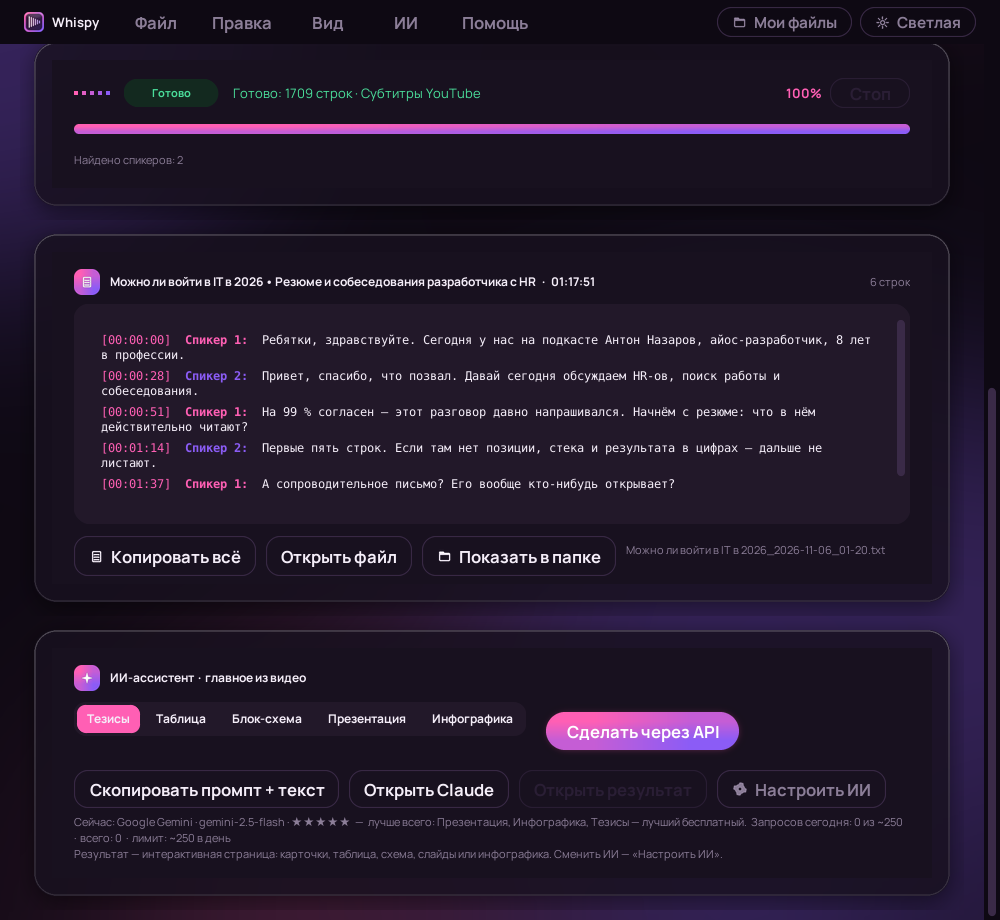
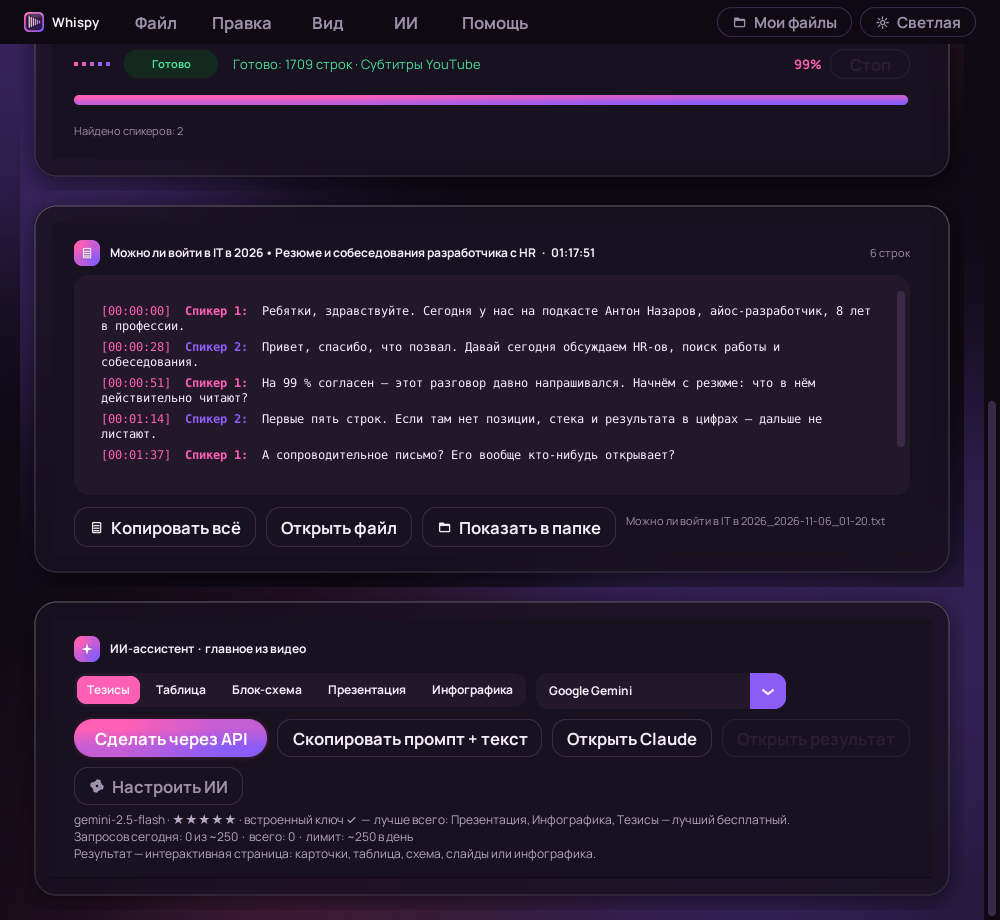
2.7.3: выбор ИИ в блоке, пометки ключей, фикс зависания просмотра, контраст подсказок, Мои файлы
Claude-Session: https://claude.ai/code/session_01S2yJaERcb5RkzNkB8S1xRH

diff --git a/docs/guide.html b/docs/guide.html
@@ -92,7 +92,7 @@ footer{margin-top:48px;color:var(--muted);font-size:12px;border-top:1px solid va
 <div class="step"><div class="n">2</div><div>
 <h3>Нажми «Сделать через API»</h3>
 <p>Через 30–90 секунд в браузере откроется готовая интерактивная страница в стиле Whispy. Она сохраняется в «Мои файлы»; кнопка <b>Сохранить в PDF</b> внизу страницы. Слайды переключаются стрелками клавиатуры.</p>
-<p><b>Работает сразу, без ключа:</b> по умолчанию выбран бесплатный Pollinations — просто нажми «Сделать через API» (ответ 20–60 секунд; бесплатный лимит — одна задача раз в 45 секунд, приложение само подождёт). Хочешь модель посильнее — открой окно <b>Настроить ИИ</b> (оно же — кнопка с шестерёнкой рядом или меню <b>ИИ → Настроить ИИ</b>):</p>
+<p><b>Работает сразу, без ключа:</b> по умолчанию выбран бесплатный Pollinations — просто нажми «Сделать через API» (ответ 20–60 секунд; бесплатный лимит — одна задача раз в 45 секунд, приложение само подождёт). Сменить ИИ можно прямо в блоке — выпадающий список рядом с форматами. Ключ, модель и подсказки — в окне <b>Настроить ИИ</b> (оно же — кнопка с шестерёнкой рядом или меню <b>ИИ → Настроить ИИ</b>):</p>
 <ol>
 <li><b>Провайдер</b> — выбери из списка. Бесплатные: Pollinations (без ключа), Google Gemini, Groq, NVIDIA NIM, Ollama Cloud, Z.AI GLM, Cerebras, GitHub Models, Mistral, OpenRouter (:free-модели), Ollama (локально). Платные: Anthropic (Claude), OpenAI (GPT), DeepSeek, xAI (Grok).</li>
 <li><b>API-ключ</b> — вставь тот, что тебе дали. Нет ключа — под полями пошаговая подсказка, где его взять, а кнопка <b>Где взять ключ</b> сразу открывает нужный сайт. Для Ollama ключ не нужен.</li>

diff --git a/app.py b/app.py
@@ -26,7 +26,7 @@ import urllib.request
 import tkinter as tk
 from tkinter import font as tkfont
 
-APP_VERSION = "2.7.2"
+APP_VERSION = "2.7.3"
 UPDATE_URL = "https://raw.githubusercontent.com/alegawhats-del/Whispy/main/version.json"
 GITHUB_URL = "https://github.com/alegawhats-del/Whispy"
 
@@ -109,7 +109,7 @@ UI_FONT, FONT_DIR = _load_fonts()
 THEMES = {
     "dark": dict(
         BG="#0E0913", CARD="#18111F", BORDER="#2A1E35", FIELD="#221829", FIELD_BORDER="#3A2A47",
-        TEXT="#F5EEF9", MUTED="#8C7E98", PINK="#FF5FB4", VIOLET="#8B5CF6", PINK_HOVER="#FF79C2",
+        TEXT="#F5EEF9", MUTED="#9E90AA", HINT="#B5A8C2", PINK="#FF5FB4", VIOLET="#8B5CF6", PINK_HOVER="#FF79C2",
         PINK_SOFT="#2E1A33", OK="#4ADE9A", OK_SOFT="#13291F", ERR="#FF6B7A", ERR_SOFT="#321820",
         GREY_SOFT="#1E1726", HERO1="#1B0F2B", HERO2="#0E0913", HERO_TEXT="#FFFFFF", HERO_SUB="#CFC3DB",
         HERO_CHIP="#2A1A3A", HERO_CHIP_BORDER="#4A3460", TOAST="#2A1A3A", TOAST_TEXT="#FFFFFF",
@@ -118,7 +118,7 @@ THEMES = {
     ),
     "light": dict(
         BG="#F6F2FA", CARD="#FFFFFF", BORDER="#EADFF2", FIELD="#F4EEF9", FIELD_BORDER="#DCCDE8",
-        TEXT="#2A1E33", MUTED="#8A7D96", PINK="#E8449F", VIOLET="#7C4DFF", PINK_HOVER="#F25CB0",
+        TEXT="#2A1E33", MUTED="#6E6180", HINT="#5A4D6B", PINK="#E8449F", VIOLET="#7C4DFF", PINK_HOVER="#F25CB0",
         PINK_SOFT="#FBE6F2", OK="#1FA86B", OK_SOFT="#E3F6EC", ERR="#E24A5C", ERR_SOFT="#FDE6EA",
         GREY_SOFT="#ECE6F1", HERO1="#F4E6FB", HERO2="#E3D4F7", HERO_TEXT="#2A1E33", HERO_SUB="#5E4F70",
         HERO_CHIP="#FBF5FE", HERO_CHIP_BORDER="#D9C6EC", TOAST="#2A1E33", TOAST_TEXT="#FFFFFF",
@@ -188,6 +188,26 @@ AI_PROFILE = {
 # Порядок автовыбора, когда ключ встроен в сборку (лучший — первым)
 BUILTIN_ORDER = ["Google Gemini", "NVIDIA NIM (бесплатно)", "Ollama Cloud (бесплатно)", "Cerebras (бесплатно, быстро)",
                  "GitHub Models (бесплатно)", "Z.AI GLM (бесплатно)", "Groq (быстро, бесплатно)", "Mistral", "OpenRouter (любая модель)"]
+
+
+def key_state(cfg, name):
+    """'own' — свой ключ, 'builtin' — встроенный, 'free' — ключ не нужен, '' — ключа нет."""
+    if (cfg.get("keys", {}) or {}).get(name):
+        return "own"
+    if BUILTIN_KEYS.get(name):
+        return "builtin"
+    if not AI_PROVIDERS[name][3]:
+        return "free"
+    return ""
+
+
+def provider_label(cfg, name):
+    st = key_state(cfg, name)
+    return ("✓  " if st else "     ") + name
+
+
+def label_to_provider(label):
+    return label.lstrip("✓ ").strip() if label else DEFAULT_PROVIDER
 
 
 def best_builtin_provider(exclude=()):
@@ -420,38 +440,57 @@ def open_html(path, title="Whispy"):
         import importlib
         importlib.import_module("webview")
         args = [sys.executable] + ([] if getattr(sys, "frozen", False) else [os.path.abspath(__file__)])
-        subprocess.Popen(args + ["--viewer", os.path.abspath(path), title], close_fds=True)
+        proc = subprocess.Popen(args + ["--viewer", os.path.abspath(path), title], close_fds=True)
+
+        def watchdog():  # окно не поднялось или упало — открываем в браузере, чтобы пользователь не ждал
+            try:
+                rc = proc.wait(timeout=8)
+            except subprocess.TimeoutExpired:
+                return
+            if rc != 0:
+                webbrowser.open("file:///" + os.path.abspath(path).replace("\\", "/"))
+        threading.Thread(target=watchdog, daemon=True).start()
     except Exception:
         webbrowser.open("file:///" + os.path.abspath(path).replace("\\", "/"))
 
 
 def run_viewer(path, title):
-    """Окно просмотра HTML в стиле программы: тёмный заголовок Windows, иконка Whispy, фон как у приложения."""
+    """Окно просмотра HTML в стиле программы (Edge WebView2): тёмный заголовок и иконка через чистый WinAPI — без .NET-вызовов из чужого потока."""
     import webview
     url = "file:///" + os.path.abspath(path).replace("\\", "/")
     win = webview.create_window(title, url, width=1120, height=820, min_size=(760, 520), background_color="#0E0913", text_select=True)
 
     def style():
+        if sys.platform != "win32":
+            return
         try:
-            native = getattr(win, "native", None)
-            hwnd = int(native.Handle.ToInt64()) if native is not None and hasattr(native, "Handle") else None
-            if hwnd and sys.platform == "win32":
-                value = ctypes.c_int(1)
-                for attr in (20, 19):
-                    ctypes.windll.dwmapi.DwmSetWindowAttribute(hwnd, attr, ctypes.byref(value), ctypes.sizeof(value))
-                color = ctypes.c_int((0x13 << 16) | (0x09 << 8) | 0x0E)  # BGR от #0E0913
-                ctypes.windll.dwmapi.DwmSetWindowAttribute(hwnd, 35, ctypes.byref(color), ctypes.sizeof(color))
-                ico = resource("whispy.ico")
-                if ico:
-                    import importlib
-                    importlib.import_module("clr")
-                    drawing = importlib.import_module("System.Drawing")
-                    native.Icon = drawing.Icon(ico)
+            u32 = ctypes.windll.user32
+            hwnd = u32.FindWindowW(None, title)
+            if not hwnd:
+                return
+            value = ctypes.c_int(1)
+            for attr in (20, 19):
+                ctypes.windll.dwmapi.DwmSetWindowAttribute(hwnd, attr, ctypes.byref(value), ctypes.sizeof(value))
+            color = ctypes.c_int((0x13 << 16) | (0x09 << 8) | 0x0E)  # BGR от #0E0913
+            ctypes.windll.dwmapi.DwmSetWindowAttribute(hwnd, 35, ctypes.byref(color), ctypes.sizeof(color))
+            ico = resource("whispy.ico")
+            if ico:
+                for size, which in ((32, 1), (16, 0)):
+                    h = u32.LoadImageW(None, ico, 1, size, size, 0x10)  # IMAGE_ICON, LR_LOADFROMFILE
+                    if h:
+                        u32.SendMessageW(hwnd, 0x80, which, h)  # WM_SETICON
         except Exception:
             pass
 
-    win.events.shown += style
-    webview.start()
+    def delayed_style():
+        time.sleep(0.6)
+        style()
+
+    win.events.shown += lambda: threading.Thread(target=delayed_style, daemon=True).start()
+    try:
+        webview.start(gui="edgechromium")
+    except Exception:
+        webview.start()
 
 
 def reveal_in_folder(path):
@@ -459,6 +498,24 @@ def reveal_in_folder(path):
         subprocess.Popen(["explorer", "/select,", os.path.normpath(path)])
     else:
         open_path(os.path.dirname(path) if path else OUT_DIR)
+
+
+def ellipsize(text, font, max_w):
+    """Обрезает строку с «…» так, чтобы она помещалась в max_w пикселей (CTkFont или tkfont)."""
+    try:
+        measure = font.measure
+    except AttributeError:
+        return text
+    if max_w <= 20 or measure(text) <= max_w:
+        return text
+    lo, hi = 0, len(text)
+    while lo < hi:
+        mid = (lo + hi + 1) // 2
+        if measure(text[:mid] + "…") <= max_w:
+            lo = mid
+        else:
+            hi = mid - 1
+    return text[:lo] + "…"
 
 
 def hex_rgb(h):
@@ -1106,10 +1163,11 @@ class Flow(ctk.CTkFrame):
             return
         x, y, row_h = 0, 0, 0
         for w in self.items:
-            rw, rh = w.winfo_reqwidth(), w.winfo_reqheight()
+            g = getattr(w, "GLOW", 0) if isinstance(w, GradientButton) else 0  # свечение не считается за размер
+            rw, rh = w.winfo_reqwidth() - g * 2, w.winfo_reqheight() - g * 2
             if x > 0 and x + rw > width:
                 x, y, row_h = 0, y + row_h + self.vgap, 0
-            w.place(x=x, y=y)
+            w.place(x=x - g, y=y - g)
             x += rw + self.gap
             row_h = max(row_h, rh)
         total = y + row_h
@@ -1582,7 +1640,10 @@ class FilesPanel(Panel):
             im = ImageTk.PhotoImage(icon_image(glyph, 16, T["PINK"], bg=T["PINK_SOFT"]))
             self._row_icons.append(im)
             ctk.CTkLabel(row, text="", image=im, width=34, height=34, corner_radius=17, fg_color=T["PINK_SOFT"]).grid(row=0, column=0, rowspan=2, padx=(10, 10), pady=8)
-            ctk.CTkLabel(row, text=os.path.basename(p), anchor="w", text_color=T["TEXT"], font=f_name).grid(row=0, column=1, sticky="ew", pady=(8, 0))
+            name_lbl = ctk.CTkLabel(row, text=os.path.basename(p), anchor="w", text_color=T["TEXT"], font=f_name)
+            name_lbl.grid(row=0, column=1, sticky="ew", pady=(8, 0))
+            name_lbl.full = os.path.basename(p)
+            name_lbl.bind("<Configure>", lambda e, l=name_lbl, fn=f_name: self.after_idle(lambda: self._fit_name(l, fn, l.winfo_width() - 8)), add="+")
             meta = f"{kind}  ·  {st.st_size / 1024:.0f} КБ  ·  {datetime.datetime.fromtimestamp(st.st_mtime):%d.%m.%Y %H:%M}"
             ctk.CTkLabel(row, text=meta, anchor="w", text_color=T["MUTED"], font=f_meta).grid(row=1, column=1, sticky="ew", pady=(0, 8))
             b = ctk.CTkFrame(row, fg_color="transparent")
@@ -1592,6 +1653,18 @@ class FilesPanel(Panel):
             GhostButton(b, "В папке", lambda p=p: reveal_in_folder(p), width=78, height=30, bg=T["CARD"], font=(UI_FONT, 11, "bold")).pack(side="left", padx=2)
             if ext == ".txt":
                 GhostButton(b, "Копировать", lambda p=p: self._copy(p), width=96, height=30, bg=T["CARD"], font=(UI_FONT, 11, "bold")).pack(side="left", padx=2)
+            else:  # у всех рядов по три кнопки — колонки совпадают
+                GhostButton(b, "В браузере", lambda p=p: webbrowser.open("file:///" + os.path.abspath(p).replace("\\", "/")),
+                            width=96, height=30, bg=T["CARD"], font=(UI_FONT, 11, "bold")).pack(side="left", padx=2)
+
+    @staticmethod
+    def _fit_name(lbl, font, max_w):
+        try:
+            new = ellipsize(lbl.full, font, max_w)
+            if lbl.cget("text") != new:
+                lbl.configure(text=new)
+        except Exception:
+            pass
 
     def _copy(self, p):
         try:
@@ -1637,8 +1710,8 @@ class AIPanel(Panel):
         box.grid_columnconfigure(0, weight=1)
 
         ctk.CTkLabel(box, text="ПРОВАЙДЕР", text_color=T["MUTED"], font=f_lab, anchor="w").grid(row=0, column=0, sticky="w")
-        self.prov = tk.StringVar(value=cfg.get("provider", DEFAULT_PROVIDER))
-        ctk.CTkOptionMenu(box, variable=self.prov, values=list(AI_PROVIDERS.keys()), height=38, corner_radius=12, font=f_in,
+        self.prov = tk.StringVar(value=provider_label(cfg, cfg.get("provider", DEFAULT_PROVIDER)))
+        ctk.CTkOptionMenu(box, variable=self.prov, values=[provider_label(cfg, n) for n in AI_PROVIDERS], height=38, corner_radius=12, font=f_in,
                           fg_color=T["FIELD"], button_color=T["VIOLET"], button_hover_color=T["PINK"], text_color=T["TEXT"],
                           dropdown_fg_color=T["CARD"], dropdown_text_color=T["TEXT"], dropdown_hover_color=T["PINK_SOFT"],
                           dropdown_font=f_in, command=self._on_provider).grid(row=1, column=0, sticky="ew", pady=(4, 10))
@@ -1670,6 +1743,8 @@ class AIPanel(Panel):
         self.keysite_btn = GhostButton(btns, "Где взять ключ", self._open_site, width=150, height=40, bg=T["CARD"], icon="key", icon_size=15)
         self.keysite_btn.pack(side="left")
         self._on_provider(self.prov.get(), first=True)
+        ctk.CTkLabel(box, text="✓ — ключ уже есть (встроенный или свой). Свой ключ заменяет встроенный.", text_color=T["MUTED"],
+                     font=ctk.CTkFont(family=UI_FONT, size=11), anchor="w").grid(row=9, column=0, sticky="w", pady=(8, 0))
         self.bind("<Return>", lambda e: self._save())
 
     def _entry(self, parent, var, font, secret=False):
@@ -1680,6 +1755,7 @@ class AIPanel(Panel):
         return e
 
     def _on_provider(self, name, first=False):
+        name = label_to_provider(name)
         proto, base, model, need_key, site = AI_PROVIDERS[name]
         cfg = self.app.ai_cfg
         saved_same = first and cfg.get("provider") == name
@@ -1687,8 +1763,14 @@ class AIPanel(Panel):
         self.base.set((cfg.get("base") if saved_same else "") or base)
         self.key.set(cfg.get("keys", {}).get(name, ""))
         self.key_entry.configure(state="normal" if need_key else "disabled")
-        builtin = bool(BUILTIN_KEYS.get(name))
-        self.key_lbl.configure(text=("API-КЛЮЧ (необязательно — есть встроенный)" if builtin else "API-КЛЮЧ") if need_key else "API-КЛЮЧ — не нужен")
+        st = key_state(self.app.ai_cfg, name)
+        lbl = {"own": "API-КЛЮЧ — свой сохранён ✓ (можно заменить)", "builtin": "API-КЛЮЧ — встроенный ✓ (введи свой, чтобы заменить)",
+               "free": "API-КЛЮЧ — не нужен", "": "API-КЛЮЧ — нужно ввести"}[st]
+        self.key_lbl.configure(text=lbl, text_color=T["OK"] if st in ("own", "builtin") else T["MUTED"])
+        try:
+            self.key_entry.configure(placeholder_text="встроенный ключ активен" if st == "builtin" else "")
+        except Exception:
+            pass
         self.keysite_btn.configure(text="Где взять ключ" if need_key else "Скачать Ollama" if "Ollama" in name else "Где взять ключ",
                                    state="normal" if site else "disabled")
         # адрес сервера подставляется сам; показываем поле только для локальных вариантов
@@ -1703,13 +1785,13 @@ class AIPanel(Panel):
         self.hint.configure(text=prof + "\n\n" + self.KEY_STEPS.get(name, "") + "\n\nКлюч хранится только на этом компьютере.")
 
     def _open_site(self):
-        site = AI_PROVIDERS[self.prov.get()][4]
+        site = AI_PROVIDERS[label_to_provider(self.prov.get())][4]
         if site:
             webbrowser.open(site)
 
     def _save(self):
         cfg = self.app.ai_cfg
-        name = self.prov.get()
+        name = label_to_provider(self.prov.get())
         proto, base, *_ = AI_PROVIDERS[name]
         cfg["provider"] = name
         cfg["model"] = self.model.get().strip()
@@ -2481,8 +2563,8 @@ class App(ctk.CTk):
 
     def hint(self, parent, text, **grid):
         """Подсказка, которая переносится по реальной ширине карточки (никогда не вылезает за край)."""
-        lb = ctk.CTkLabel(parent, text=text, text_color=T["MUTED"], anchor="w", justify="left",
-                          font=ctk.CTkFont(family=UI_FONT, size=11))
+        lb = ctk.CTkLabel(parent, text=text, text_color=T["HINT"], anchor="w", justify="left",
+                          font=ctk.CTkFont(family=UI_FONT, size=12))
         lb.grid(**grid)
         parent.bind("<Configure>", lambda e, l=lb: l.configure(wraplength=max(200, e.width - 48)), add="+")
         return lb
@@ -2697,6 +2779,12 @@ class App(ctk.CTk):
         aiflow = Flow(ai, gap=10, vgap=10)
         aiflow.grid(row=1, column=0, sticky="ew", padx=22, pady=(0, 6))
         self.ai_seg = aiflow.add(self.seg(aiflow, AI_TYPES, self.ai_var))
+        self.ai_prov_var = tk.StringVar(value=self.ai_cfg.get("provider", DEFAULT_PROVIDER))
+        self.ai_prov_menu = aiflow.add(ctk.CTkOptionMenu(
+            aiflow, variable=self.ai_prov_var, values=list(AI_PROVIDERS.keys()), height=36, corner_radius=12, width=250,
+            font=ctk.CTkFont(family=UI_FONT, size=12, weight="bold"), fg_color=T["FIELD"], button_color=T["VIOLET"], button_hover_color=T["PINK"],
+            text_color=T["TEXT"], dropdown_fg_color=T["CARD"], dropdown_text_color=T["TEXT"], dropdown_hover_color=T["PINK_SOFT"],
+            dropdown_font=ctk.CTkFont(family=UI_FONT, size=13), command=self.pick_provider))
         self.ai_api_btn = aiflow.add(GradientButton(aiflow, "Сделать через API", self.run_ai_api, width=170, height=38, bg=T["CARD"], font=(UI_FONT, 12, "bold")))
         self.ai_copy_btn = aiflow.add(GhostButton(aiflow, "Скопировать промпт + текст", lambda: self.copy_ai_prompt(), width=230, height=38, bg=T["CARD"]))
         self.ai_open_btn = aiflow.add(GhostButton(aiflow, "Открыть Claude", lambda: webbrowser.open("https://claude.ai/new"), width=140, height=38, bg=T["CARD"]))
@@ -2711,7 +2799,7 @@ class App(ctk.CTk):
         self.copy_btn = bottom.add(GhostButton(bottom, "Копировать всё", self.copy_all, width=160, height=40, bg=T["CARD"], icon="doc", icon_size=15))
         self.file_btn = bottom.add(GhostButton(bottom, "Открыть файл", self.open_file, width=140, height=40, bg=T["CARD"]))
         self.folder_btn = bottom.add(GhostButton(bottom, "Показать в папке", lambda: reveal_in_folder(self.last_path), width=150, height=40, bg=T["CARD"], icon="folder", icon_size=15))
-        self.path_lbl = bottom.add(ctk.CTkLabel(bottom, text=os.path.basename(self.last_path) if self.last_path else "", font=f_small, text_color=T["MUTED"]))
+        self.path_lbl = bottom.add(ctk.CTkLabel(bottom, text=ellipsize(os.path.basename(self.last_path), f_small, 360) if self.last_path else "", font=f_small, text_color=T["MUTED"]))
         self._scroll_target = None
         self.refresh_buttons()
         self.unbind_all("<MouseWheel>")
@@ -3012,12 +3100,25 @@ class App(ctk.CTk):
         self.refresh_ai_hint()
         self.refresh_buttons()
 
+    def pick_provider(self, name):
+        """Смена ИИ прямо из блока: без ключа — сразу открываем настройку."""
+        self.ai_cfg["provider"], self.ai_cfg["model"], self.ai_cfg["base"] = name, "", ""
+        self.persist()
+        self.refresh_ai_hint()
+        if not self.ai_ready():
+            self.ask_api_key()
+
     def refresh_ai_hint(self):
         name = self.ai_cfg.get("provider", DEFAULT_PROVIDER)
+        if hasattr(self, "ai_prov_var"):
+            self.ai_prov_var.set(name)
+            self.ai_prov_menu.configure(values=[n for n in AI_PROVIDERS])
         q, best, _, lim = AI_PROFILE.get(name, (3, "", 0, ""))
         model = self.ai_cfg.get("model") or AI_PROVIDERS.get(name, AI_PROVIDERS[DEFAULT_PROVIDER])[2]
-        self.ai_hint_lbl.configure(text=f"Сейчас: {name} · {model} · {'★' * q}{'☆' * (5 - q)}  —  лучше всего: {best}.  {usage_text(self.ai_cfg, name)}"
-                                        + (f"  ·  лимит: {lim}" if lim else "") + "\nРезультат — интерактивная страница: карточки, таблица, схема, слайды или инфографика. Сменить ИИ — «Настроить ИИ».")
+        st = key_state(self.ai_cfg, name)
+        ks = {"own": "свой ключ ✓", "builtin": "встроенный ключ ✓", "free": "без ключа", "": "нужен ключ — «Настроить ИИ»"}[st]
+        self.ai_hint_lbl.configure(text=f"{model} · {'★' * q}{'☆' * (5 - q)} · {ks}  —  лучше всего: {best}.\n{usage_text(self.ai_cfg, name)}"
+                                        + (f"  ·  лимит: {lim}" if lim else "") + "\nРезультат — интерактивная страница: карточки, таблица, схема, слайды или инфографика.")
 
     def run_ai_api(self, tried=None):
         if not self.all_lines or (self.ai_worker and self.ai_worker.is_alive()):
@@ -3190,7 +3291,7 @@ class App(ctk.CTk):
                 elif kind == "done":
                     self.last_path = d["path"]
                     self.last_title = d["title"]
-                    self.path_lbl.configure(text=os.path.basename(d["path"]))
+                    self.path_lbl.configure(text=ellipsize(os.path.basename(d["path"]), ctk.CTkFont(family=UI_FONT, size=11), 360))
                     self.status_lbl.configure(text=f"Готово: {d['lines']} строк · {d['source']}", text_color=T["OK"])
                     self.textbox.see("1.0")
                     self.finish_ui()
@@ -3304,7 +3405,7 @@ if __name__ == "__main__":
         try:
             run_viewer(sys.argv[2], sys.argv[3] if len(sys.argv) > 3 else "Whispy")
         except Exception:
-            webbrowser.open("file:///" + os.path.abspath(sys.argv[2]).replace("\\", "/"))
+            sys.exit(2)  # родитель откроет файл в браузере
         sys.exit(0)
     if sys.platform == "win32":
         try:

diff --git a/NOTES.md b/NOTES.md
@@ -1,3 +1,4 @@
-• Интерфейс: карточки заметно отделены от фона (плотное стекло, тень, цветные иконки-заголовки), кнопки ИИ-блока больше не обрезаются и не расползаются
-• Меню: крупнее шрифт, иконки у пунктов, ровная сетка и видимые разделители
-• Шапка без «углов» на градиенте; прокрутка колесом без рваных полос
+• Выбор ИИ прямо в блоке «ИИ-ассистент» (выпадающий список)
+• В «Настроить ИИ» помечены провайдеры, у которых уже есть ключ (✓); свой ключ заменяет встроенный
+• Исправлено зависание окна руководства; если встроенное окно не открылось — страница откроется в браузере
+• Подсказки крупнее и контрастнее; «Мои файлы»: имена с многоточием, кнопки по колонкам
